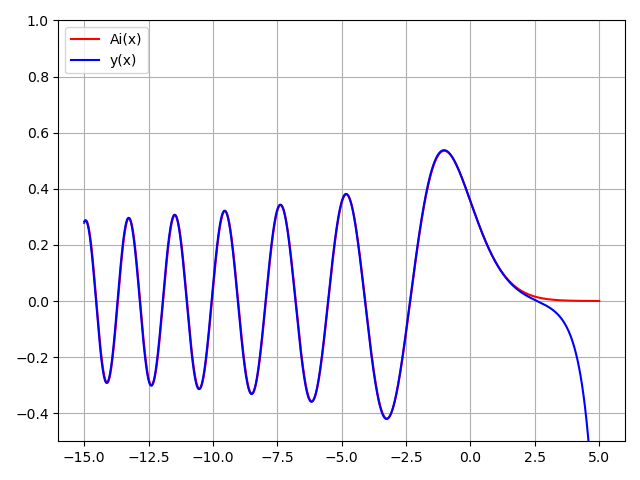
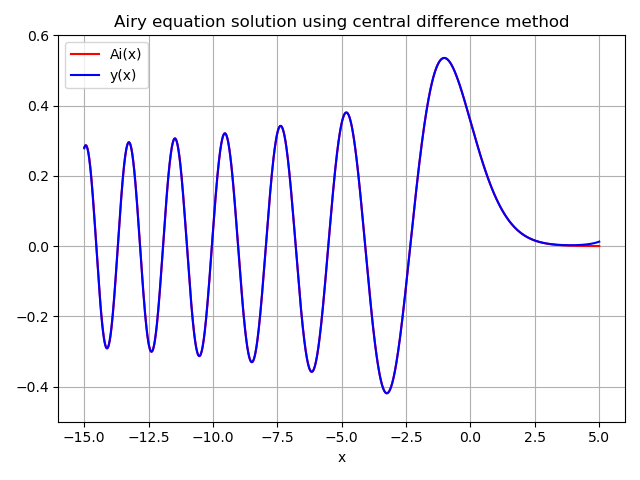
correction and execution time added

diff --git a/2/problem2.py b/2/problem2.py
@@ -7,6 +7,9 @@ from scipy.special import airy, gamma
 import matplotlib.pyplot as plt
 import numpy as np
 from math import exp
+from datetime import datetime
+
+startTime = datetime.now()
 
 # parameters
 a = 0 
@@ -15,7 +18,7 @@ dy0 = -1/(pow(3, 1/3)*gamma(1/3))
 
 # solving the Airy equation using central difference
 def cntrl(xi, xf, yi, dyi, steps) :
-    ''' solves the Airy equation y''(x) = xy
+    ''' solves the Airy equation y'' = xy
     xi : initial x datapoint, xf : final x datapoint, yi : initial y datapoint, dyi : derivativative initial data, steps : number of iterations,
     returns two 1D array of x, y values '''
 
@@ -27,14 +30,14 @@ def cntrl(xi, xf, yi, dyi, steps) :
     y1 = (h*dyi + yi)
     y = np.append(y, y1)
     for i in range(0, len(x)-2) :
-        dy = (2 + x[i]*h**2)*y[i + 1] - y[i]
+        dy = (2 + x[i + 1]*h**2)*y[i + 1] - y[i]
         y = np.append(y, dy)
 
     return x, y
 
 # solving the Airy equation using forward difference
 def frwrd(xi, xf, yi, dyi, steps) :
-    ''' solves the Airy equation y''(x) = xy
+    ''' solves the Airy equation y'' = xy
     xi : initial x datapoint, xf : final x datapoint, yi : initial y datapoint, dyi : derivativative initial data, steps : number of iterations,
     returns two 1D array of x, y values '''
 
@@ -51,7 +54,7 @@ def frwrd(xi, xf, yi, dyi, steps) :
 
     return x, y
 
-xg, yg = cntrl(a, 10, y0, dy0, 1000)       # x range greater than 0
+xg, yg = cntrl(a, 5, y0, dy0, 5000)      # x range greater than 0
 xl, yl = cntrl(a, -15, y0, dy0, 1500)    # x range less than 0
 
 x = np.append(xl[::-1], xg[1::])
@@ -60,12 +63,15 @@ ai, aip, bi, bip = airy(x)
 
 # approximating the Airy equation with the series solution
 
-print(y[-1])
+endTime = datetime.now()
+print("Execution time : ", endTime - startTime)
 
-plt.plot(x, ai, 'k', label='Ai(x)')
-plt.plot(x, y, 'b', label='y(x)', alpha=0.5)
-# plt.plot(x, bi, 'b--', label='Bi(x)')
-plt.ylim(-0.5, 1.0)
+plt.plot(x, ai, 'r', label='Ai(x)')
+plt.plot(x, y, 'b', label='y(x)')
+# plt.plot(x, bi, 'r', label='Bi(x)')
+plt.ylim(-0.5, 0.6)
+plt.xlabel("x")
+plt.title("Airy equation solution using central difference method")
 plt.grid()
 plt.legend(loc='upper left')
 plt.show()

diff --git a/2/using_rk.py b/2/using_rk.py
@@ -2,12 +2,16 @@ from runge_kutta_four import *
 import numpy as np
 from matplotlib import pyplot as plt
 from scipy.special import airy, gamma
+from datetime import datetime
 
+startTime = datetime.now()
+
+# parameters
 a = 0
 bl = -15
-bg = 15
+bg = 5
 Nl = 1500
-Ng = 500
+Ng = 5000
 xl = np.linspace(a, bl, Nl)
 xg = np.linspace(a, bg, Ng)
 hl = (bl - a)/Nl
@@ -27,7 +31,7 @@ def F(t, Y) :
 
 # solution in the range x < 0
 for i in range(1, len(xl)) :
-    Y = RK4(xl[i], hl, Y, F)
+    Y = RK4(xl[i-1], hl, Y, F)
     solnl = np.append(solnl, Y[0])
     dsolnl = np.append(dsolnl, Y[1])
 
@@ -35,16 +39,18 @@ for i in range(1, len(xl)) :
 Y = np.array([y0, t0])
 
 for i in range(1, len(xg)) :
-    Y = RK4(xg[i], hg, Y, F)
+    Y = RK4(xg[i-1], hg, Y, F)
     solng = np.append(solng, Y[0])
     dsolng = np.append(dsolng, Y[1])
 
 x = np.append(xl[::-1], xg[1::])
 soln = np.append(solnl[::-1], solng[1::])
-print(soln[-1])
+
 ai, aip, bi, bip = airy(x)
 plt.plot(x, ai, 'r', label='Ai(x)')
 plt.plot(x, soln, 'b', label='y(x)')
+plt.xlabel("x")
+plt.title("Airy equation solution using fourth order Runge-Kutta method")
 plt.grid()
 plt.legend()
 plt.show()

diff --git a/1/problem1.py b/1/problem1.py
@@ -13,6 +13,9 @@ discrete derivatve : ddy = (y(x + dx) - y(x - dx))/2dx
 
 import numpy as np
 import matplotlib.pyplot as plt
+from datetime import datetime
+
+startTime = datetime.now()
 
 # parameters
 # N = int(input("Enter the number of steps : "))
@@ -64,6 +67,9 @@ for N in step :
 # actual solution
     u = np.linspace(a, b, 1000)
     sin = np.array([np.sin(u[i]) for i in range(len(u))])
+
+endTime = datetime.now()
+print("Execution time : ", endTime - startTime)
 
 plt.plot(u, sin, color='black')
 plt.title("Solution to y'' = -y, y(0)=0, y'(0)=1 using forward difference")
